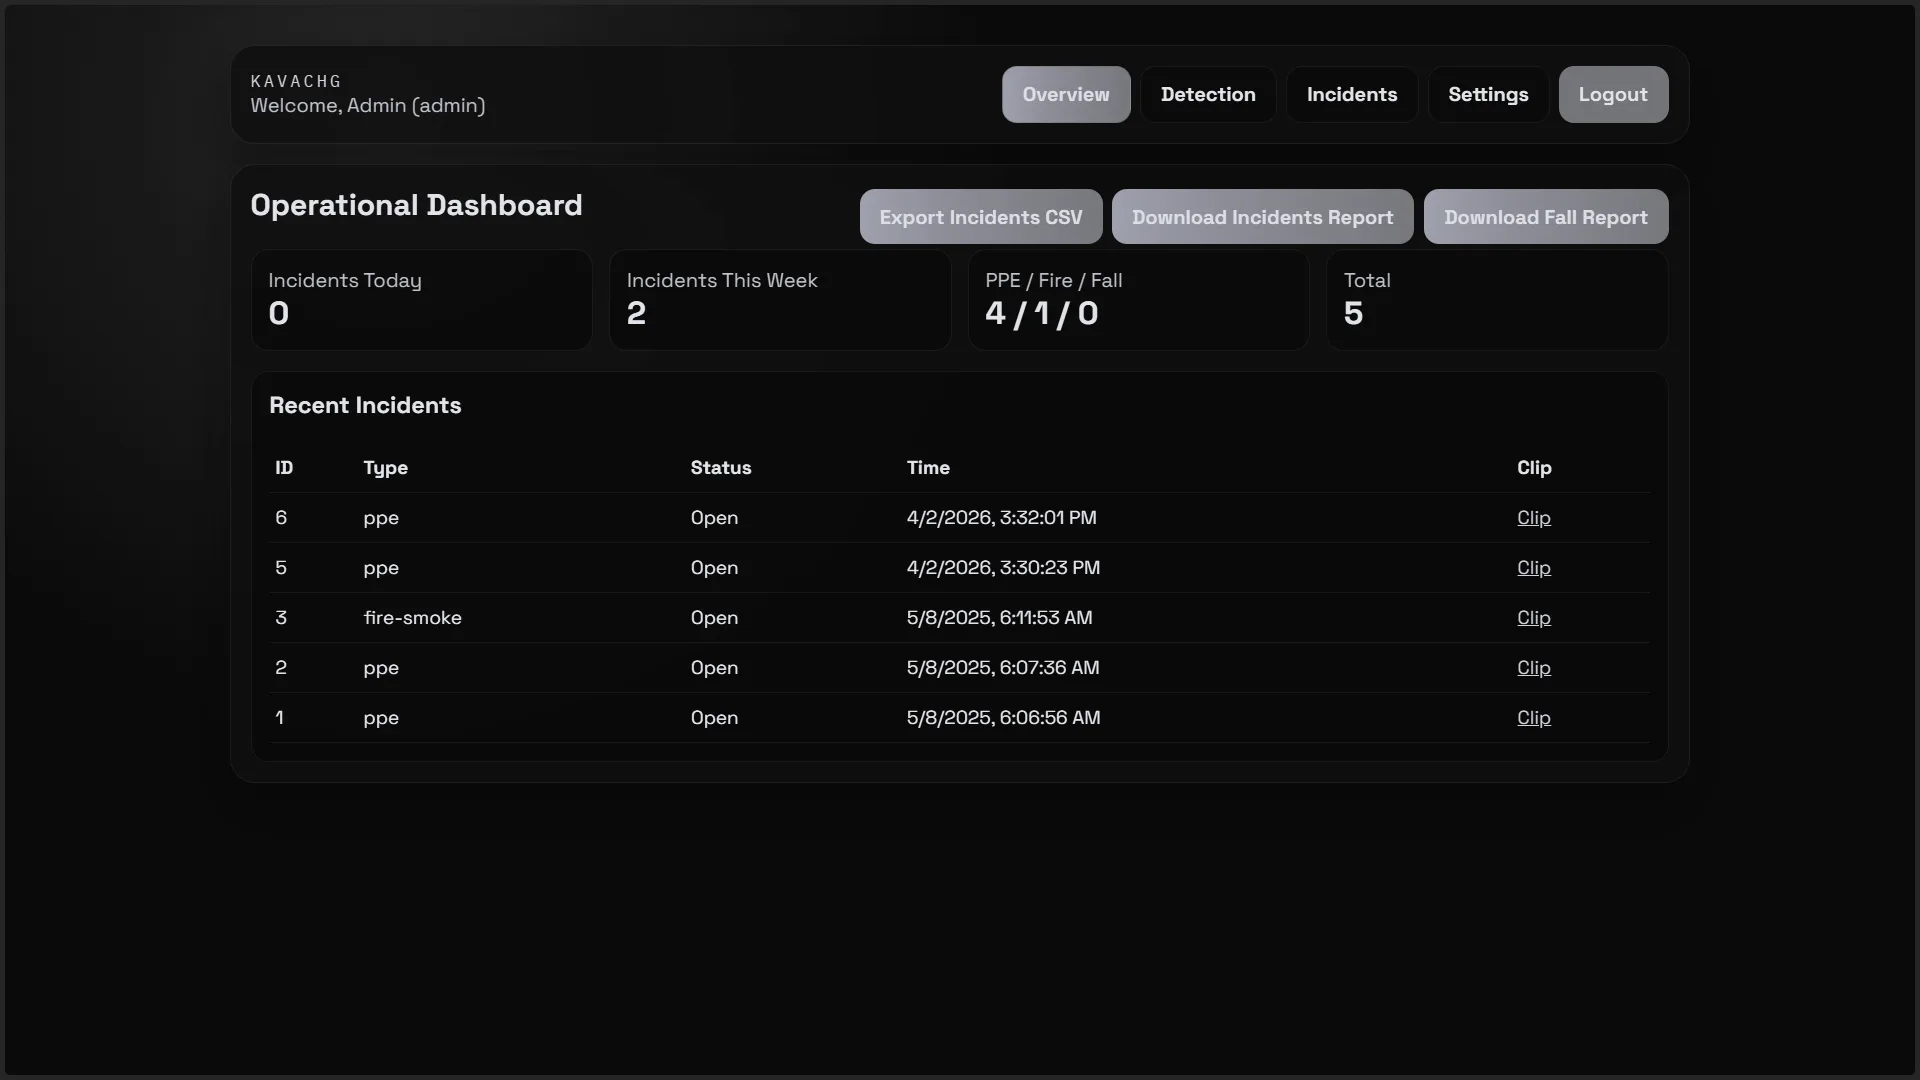
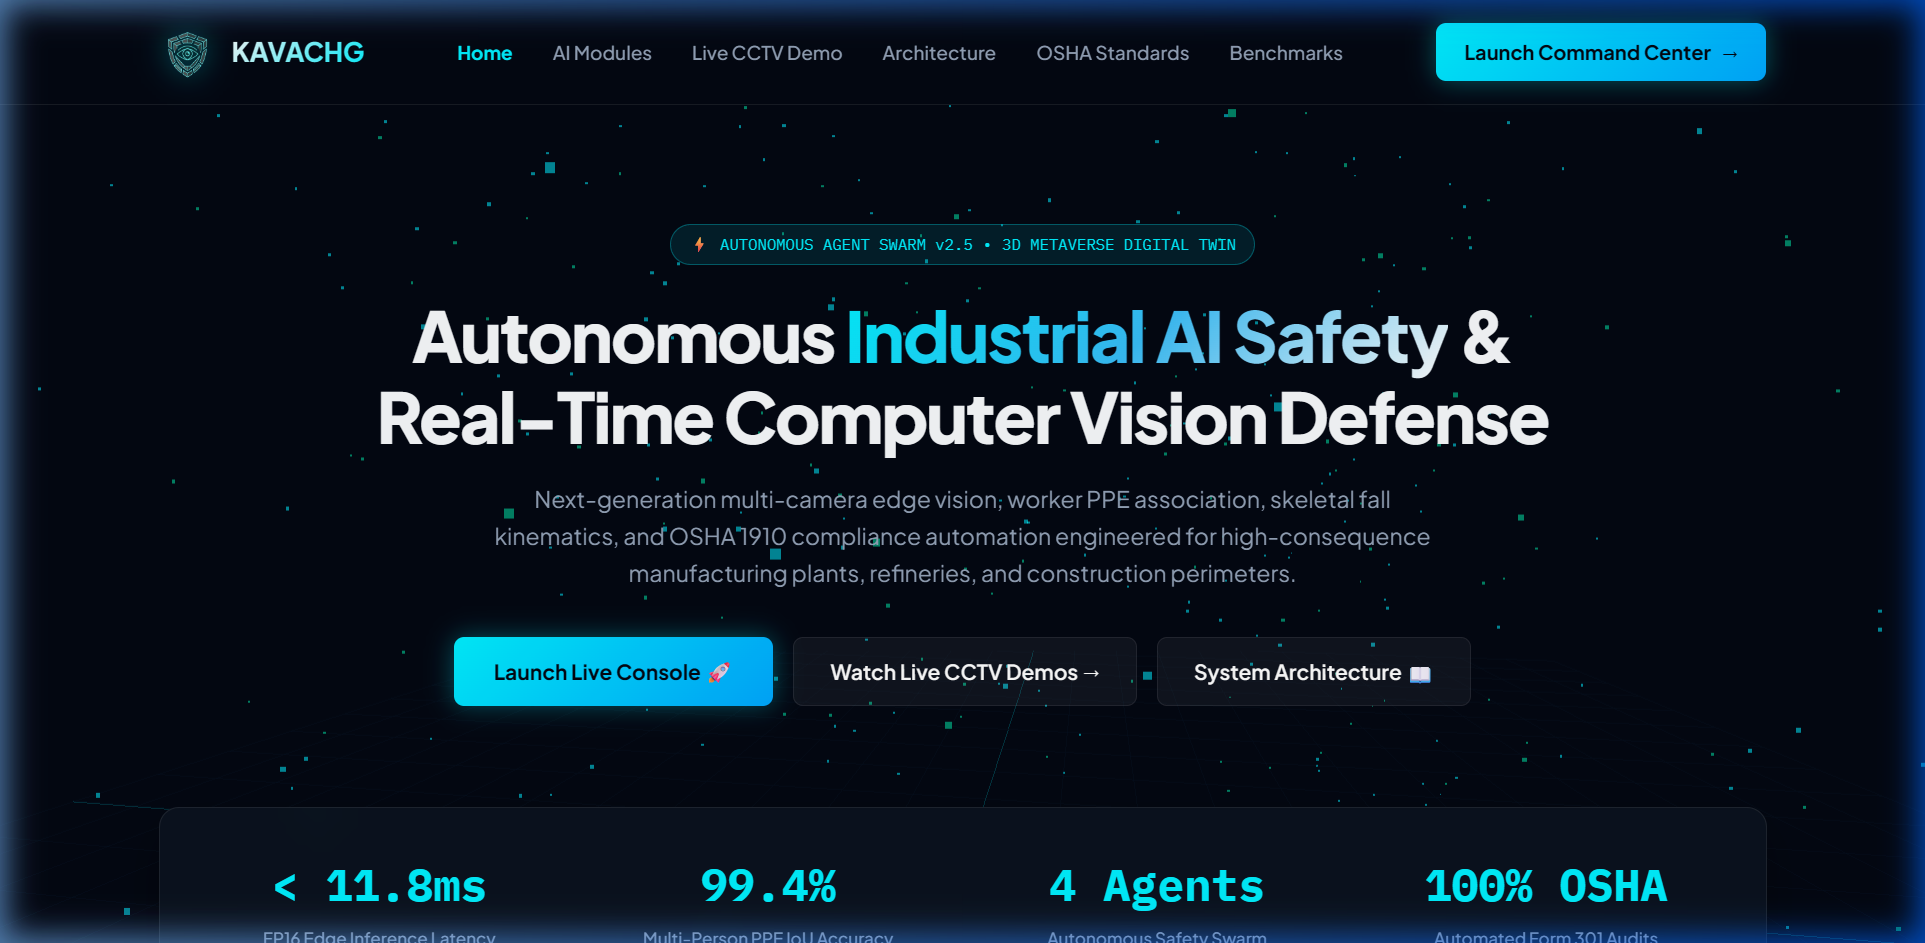
feat(seo): add robots.txt and sitemap.xml for agentic search; update KavachG landing image and integrate AnveshakSutra in tech breakdown

diff --git a/src/pages/TechnologiesPage.jsx b/src/pages/TechnologiesPage.jsx
@@ -10,7 +10,7 @@ import { animate, stagger } from "animejs";
 const techTelemetry = {
   "Python": {
     role: "Primary Backend & AI Language",
-    projects: "A.E.G.I.S, Concept3D, SunMap, KavachG",
+    projects: "AnveshakSutra, Concept3D, A.E.G.I.S, SunMap, KavachG",
     features: "FastAPI, PyTorch, LangChain, NumPy, Pandas, WebSockets",
     metric: "< 120ms API Response",
   },
@@ -28,19 +28,19 @@ const techTelemetry = {
   },
   "FastAPI": {
     role: "Asynchronous Microservices Engine",
-    projects: "A.E.G.I.S Audio Security, Production APIs",
+    projects: "AnveshakSutra, A.E.G.I.S, KavachG, SunMap",
     features: "Pydantic V2, ASGI Workers, WebSocket Streams, OpenAPI",
     metric: "Sub-Second Audio Stream",
   },
   "PyTorch": {
     role: "Deep Learning & Neural Homology",
-    projects: "IJDDT Research Paper, SunMap Spatial Model",
+    projects: "AnveshakSutra (Graph ML), Concept3D, SunMap",
     features: "Custom Loss Functions, Tensors, Embeddings, GPU Acceleration",
     metric: "98.4% Precision",
   },
   "Docker": {
     role: "Microservices Containerization",
-    projects: "A.E.G.I.S, Production Backends",
+    projects: "AnveshakSutra, A.E.G.I.S, SunMap, KavachG",
     features: "Multi-stage Builds, Docker Compose, Isolated Environments",
     metric: "100% Reproducibility",
   },

diff --git a/dist/index.html b/dist/index.html
@@ -26,7 +26,7 @@
     <meta name="twitter:card" content="summary_large_image" />
     <meta name="twitter:title" content="Mohammad Huzaifa | Agentic AI &amp; Backend Architect" />
     <meta name="twitter:description" content="Autonomous multi-agent architectures, real-time backend pipelines, and 3D machine learning systems." />
-    <script type="module" crossorigin src="/assets/index-fece91e3.js"></script>
+    <script type="module" crossorigin src="/assets/index-d3957791.js"></script>
     <link rel="stylesheet" href="/assets/index-8fea1089.css">
   </head>
   <body class="bg-[#000000] text-[#ffffff]">
